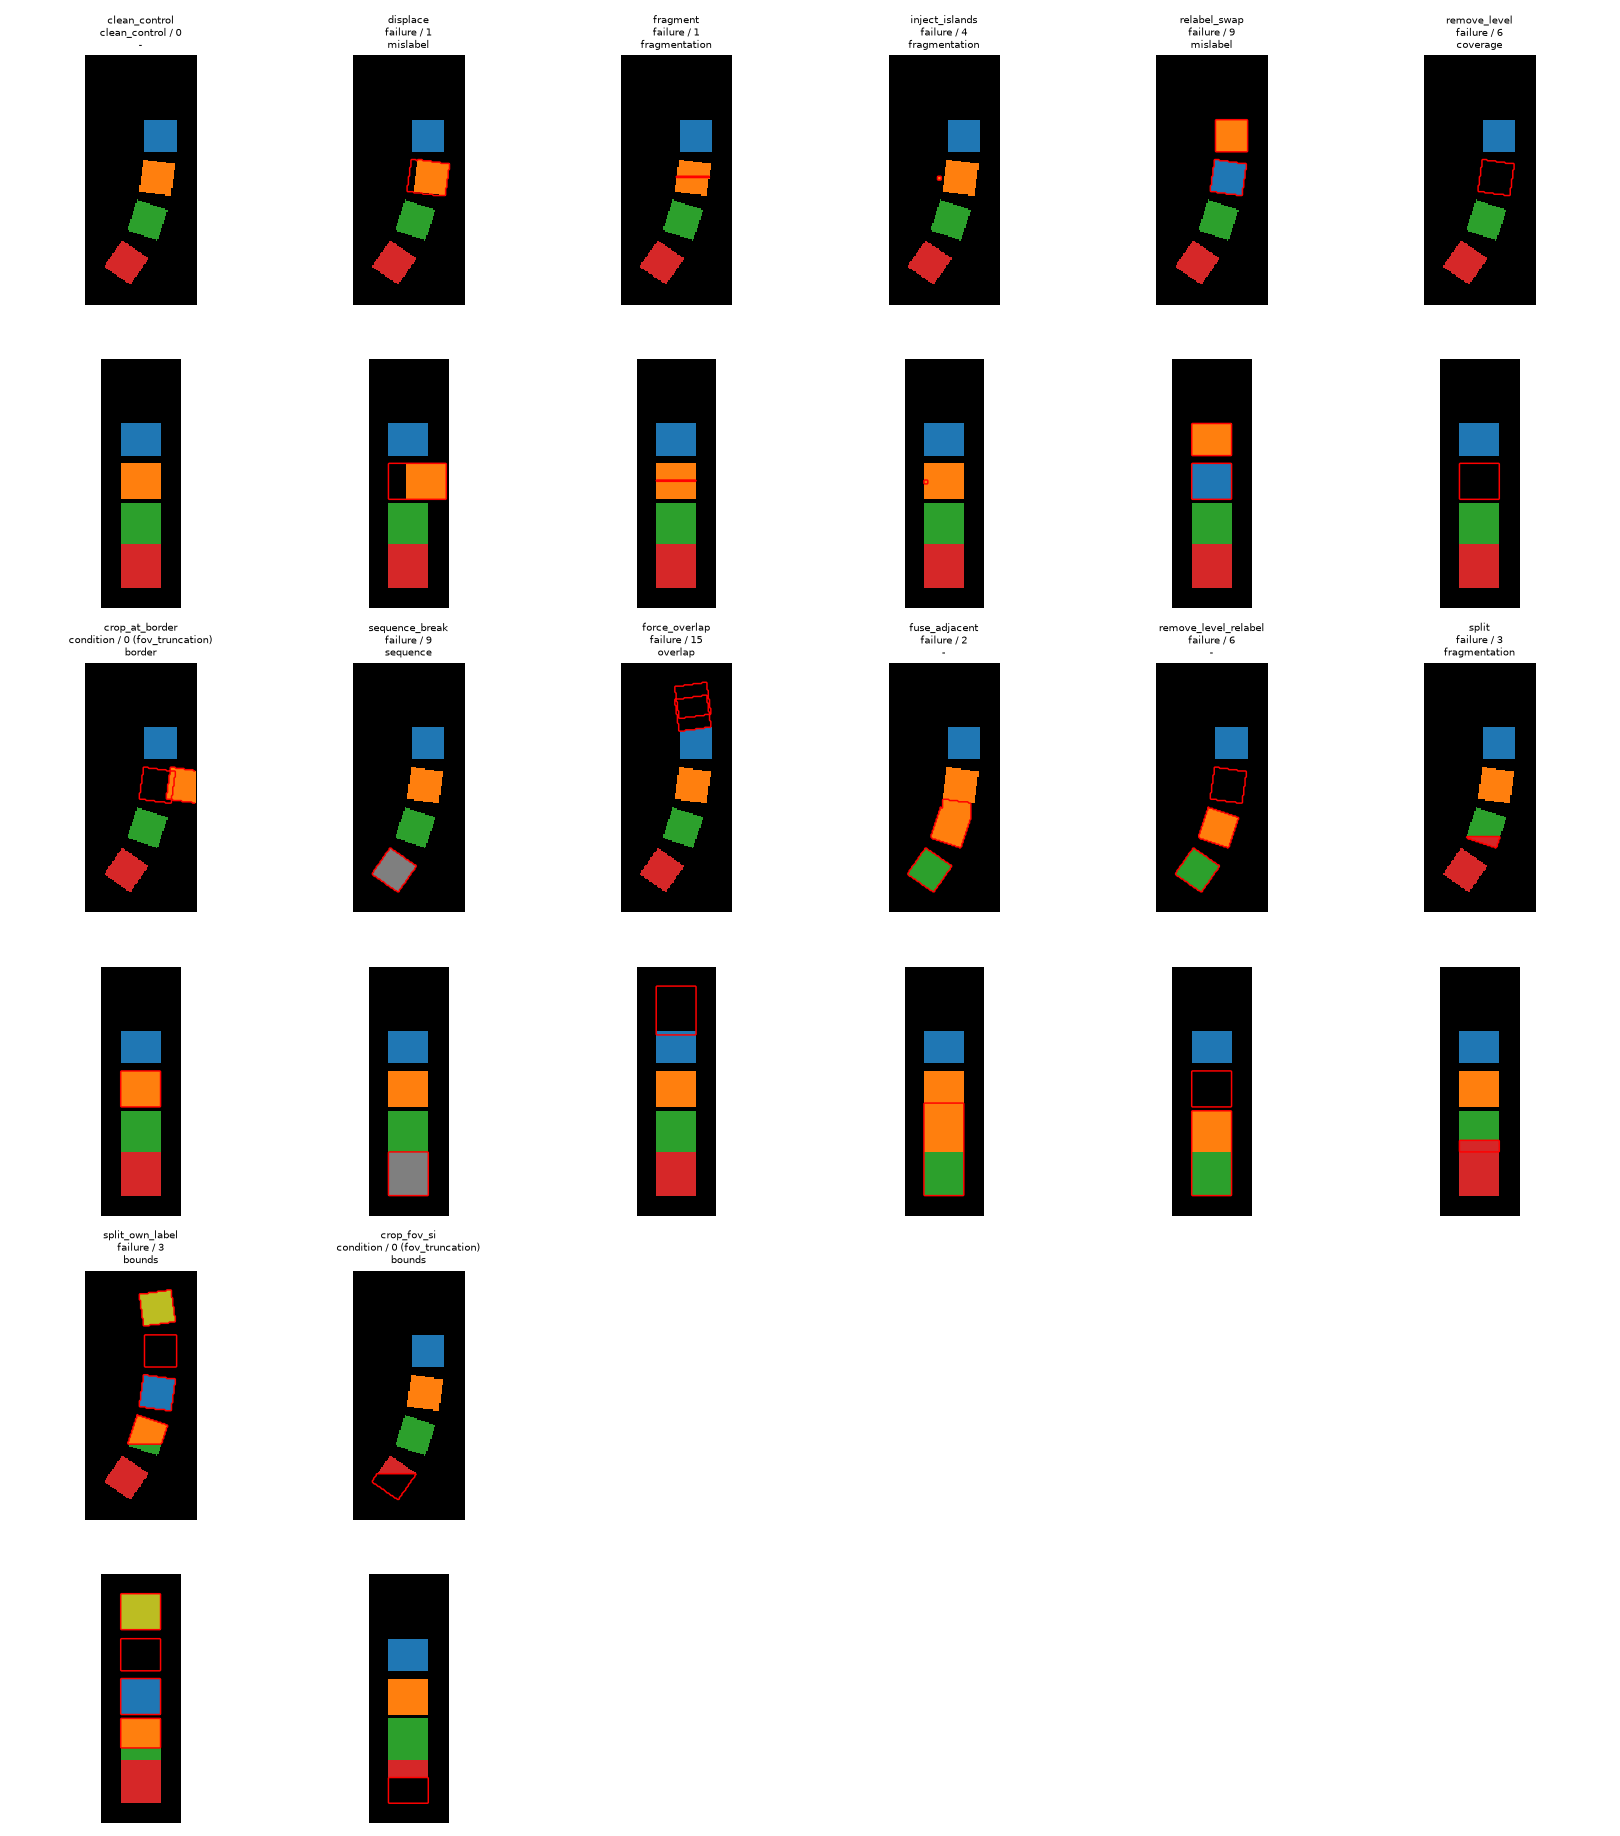
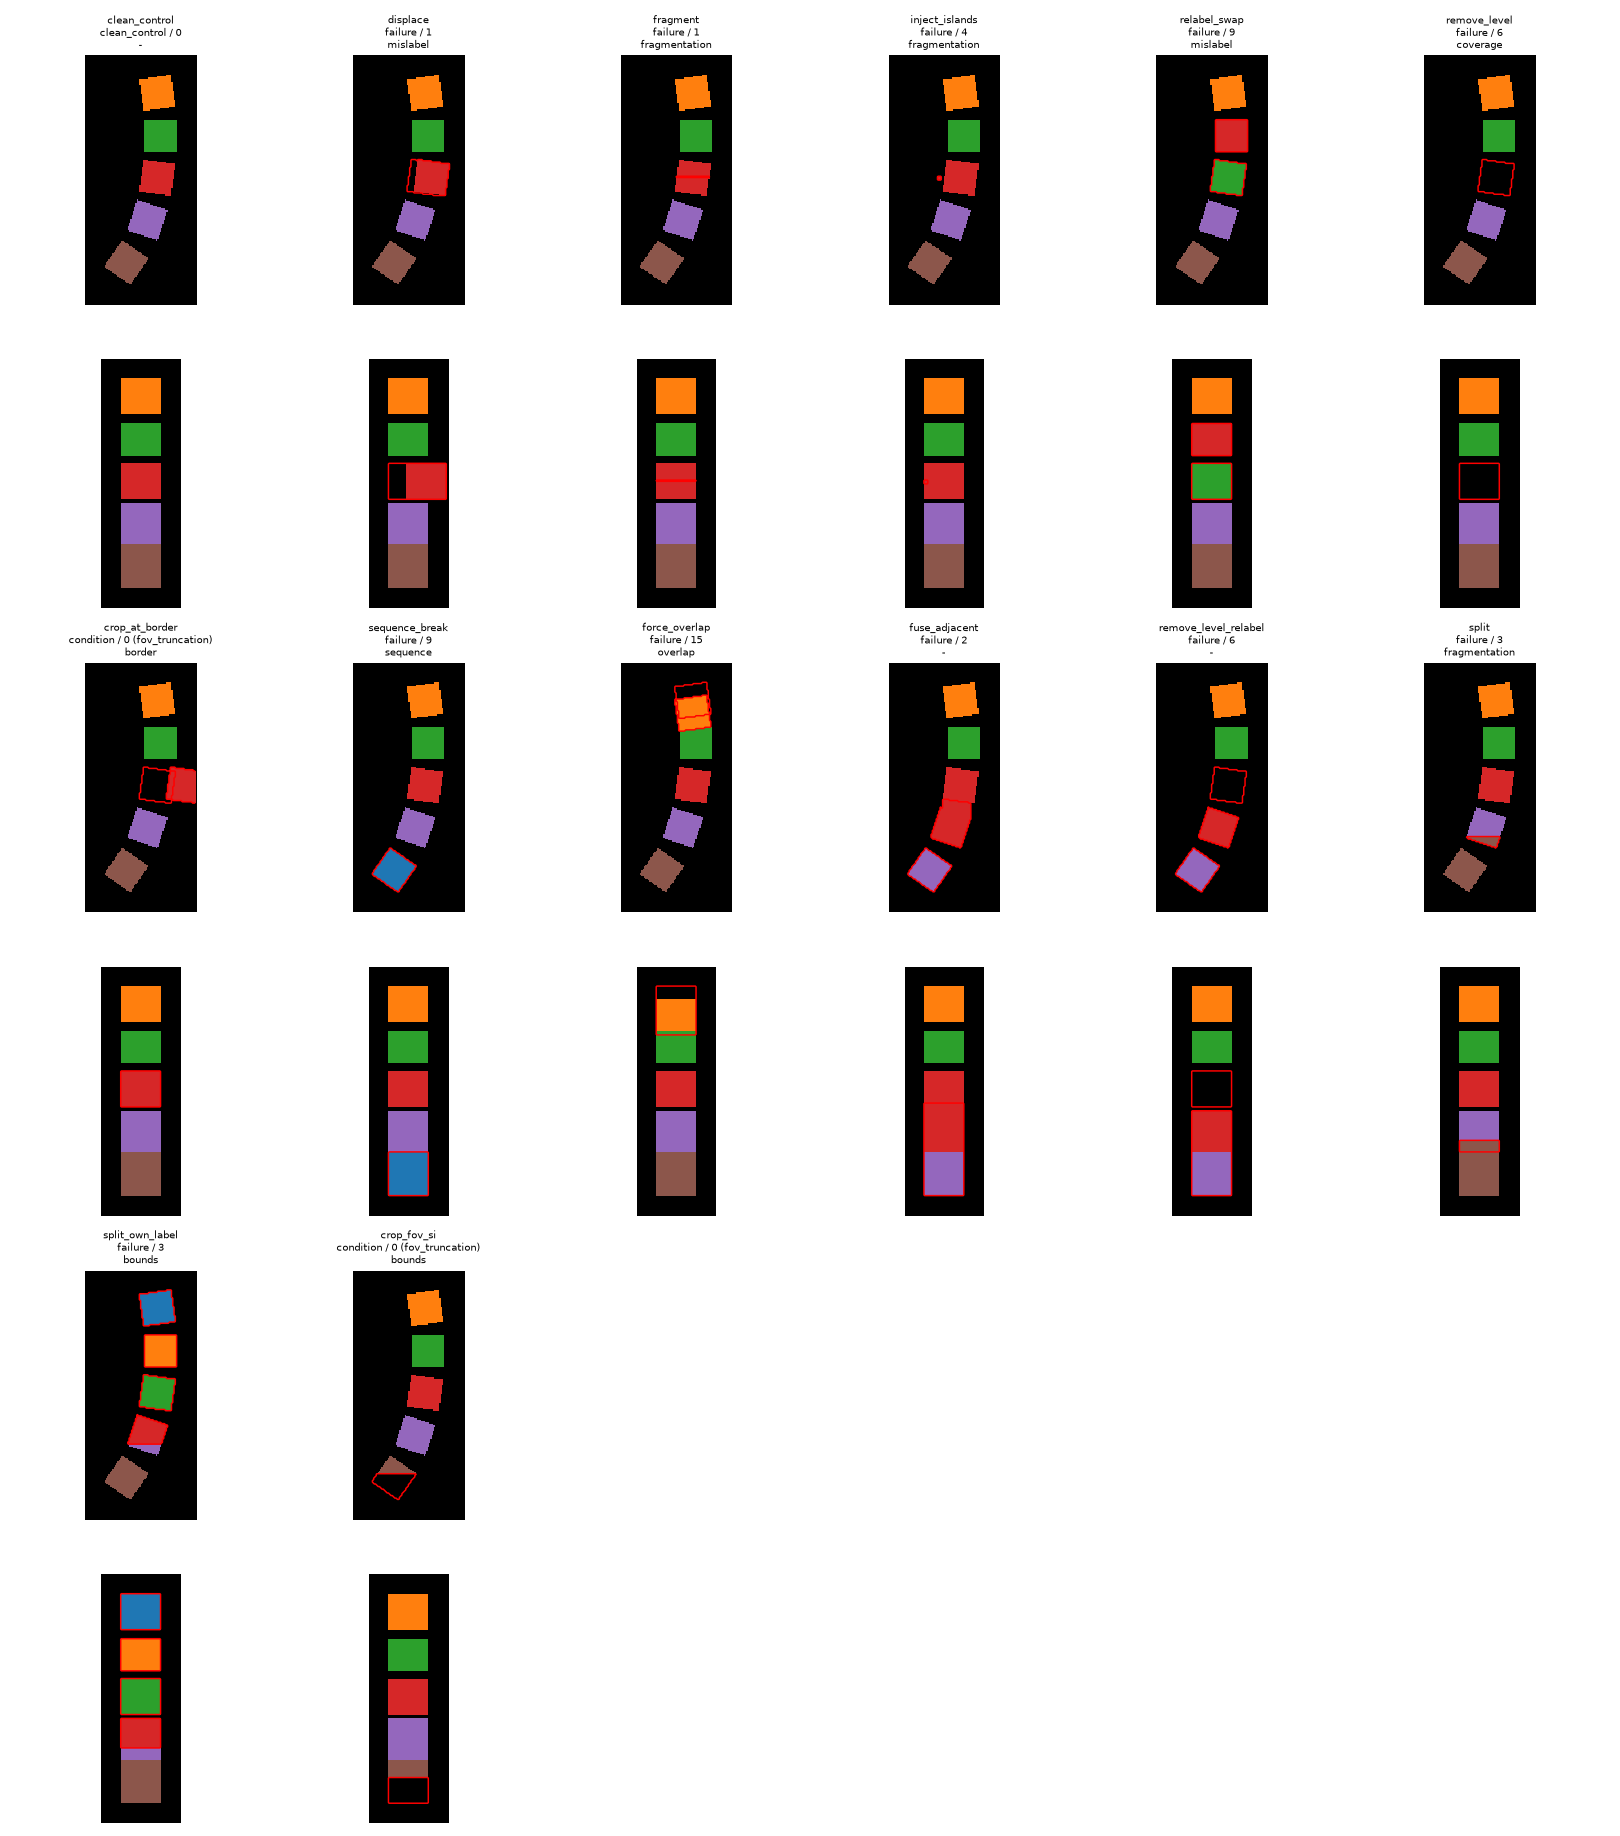
fix(178): no nonzero label renders in the background colour
label % 10 mapped label 20 (present in every corpus case) to the
background index, hiding it in every panel. label_rgba() maps 0 to
background and nonzero L to 1 + (L - 1) % 9, so any 9 consecutive
nonzero labels stay pairwise distinct and never land on background.

diff --git a/src/segfacet/synth/corpus_sheet.py b/src/segfacet/synth/corpus_sheet.py
@@ -41,6 +41,7 @@ __all__ = [
     "sheet_panels",
     "input_digest",
     "render_sheet",
+    "label_rgba",
     "main",
 ]
 
@@ -144,8 +145,6 @@ def render_sheet(out: Path = SHEET_PATH, manifest_path: Path = MANIFEST_PATH):
     fig = Figure(figsize=(3 * _COLUMNS, 3.4 * n_rows))
     axes = fig.subplots(n_rows, _COLUMNS, squeeze=False)
 
-    cmap = _label_colormap()
-
     for i, panel in enumerate(panels):
         case_row, col = divmod(i, _COLUMNS)
         case = cases_by_id[panel.case_id]
@@ -162,7 +161,7 @@ def render_sheet(out: Path = SHEET_PATH, manifest_path: Path = MANIFEST_PATH):
         ):
             ax = axes[2 * case_row + row_offset, col]
             ax.imshow(
-                cmap(img % 10),
+                label_rgba(img),
                 origin="lower",
                 interpolation="nearest",
             )
@@ -189,16 +188,26 @@ def render_sheet(out: Path = SHEET_PATH, manifest_path: Path = MANIFEST_PATH):
     return fig
 
 
-def _label_colormap():
-    """One fixed table mapping a label value's ``value % 10`` to a colour,
-    background (0) black, shared by every panel so a relabel reads as a
-    colour change rather than depending on a per-run lookup table."""
+def label_rgba(labels: np.ndarray) -> np.ndarray:
+    """Map a label array to RGBA, background (0) black, every nonzero label
+    to one of 9 tab10 colours via ``1 + (label - 1) % 9`` -- so labels 20-24
+    (any 9 consecutive nonzero labels) are pairwise distinct and no nonzero
+    label ever lands on index 0 the way a bare ``label % 10`` did (a
+    committed corpus case is labelled 20, which mapped to background and
+    rendered invisible in every panel -- fixed 2026-09-24, item 178).
+
+    Colour is still a pure function of the label value, so a relabel still
+    reads as a colour change, just never *to* the background colour."""
     from matplotlib.colors import ListedColormap
     from matplotlib import colormaps
 
     tab10 = colormaps["tab10"]
     colours = ["black"] + [tab10(i) for i in range(9)]
-    return ListedColormap(colours)
+    cmap = ListedColormap(colours)
+
+    labels = np.asarray(labels)
+    index = np.where(labels == 0, 0, 1 + (labels - 1) % 9)
+    return cmap(index)
 
 
 def main(argv: Optional[Sequence[str]] = None) -> int:

diff --git a/docs/aide/items/178-a-committed-corpus-rendering.md b/docs/aide/items/178-a-committed-corpus-rendering.md
@@ -376,3 +376,14 @@ committed sheet. Item 179 is independent of this item.
 - **Left open:** whether the digest should also cover the rendering code
   (A6). No consumer reads the layout, so a stale layout was not worth a
   version constant.
+- **2026-09-24 — `label_rgba()` replaces the bare `cmap(img % 10)` colouring.**
+  Review finding: the fixed 10-entry table (background at index 0, 9 tab10
+  colours at indices 1-9) was indexed by `label % 10`, and label 20 — present
+  in every corpus case — maps to `20 % 10 == 0`, the background index, so it
+  rendered as background in every panel instead of a colour. Fixed by shifting
+  the nonzero range off the background index: `label_rgba()` (public,
+  `render_sheet` draws through it) maps label 0 to background and label `L` to
+  colour index `1 + (L - 1) % 9`, so labels 20-24 (any 9 consecutive nonzero
+  labels) land on distinct indices 1-9 and no nonzero label can land on 0. The
+  colour is still a pure function of the label value, so a relabel still reads
+  as a colour change — it just never lands *on* the background colour anymore.
